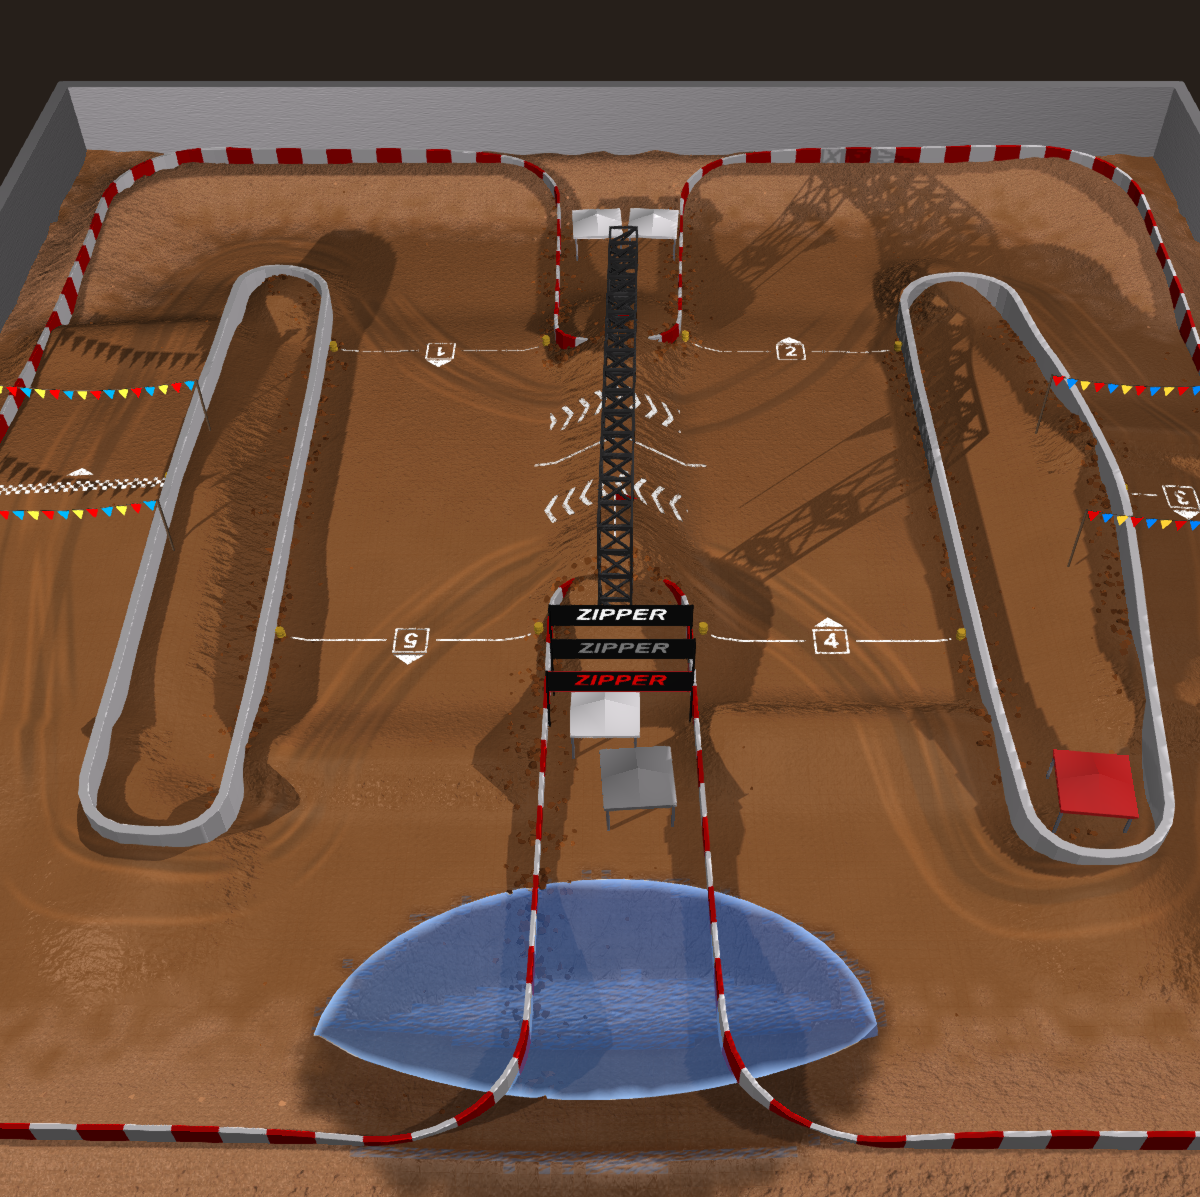
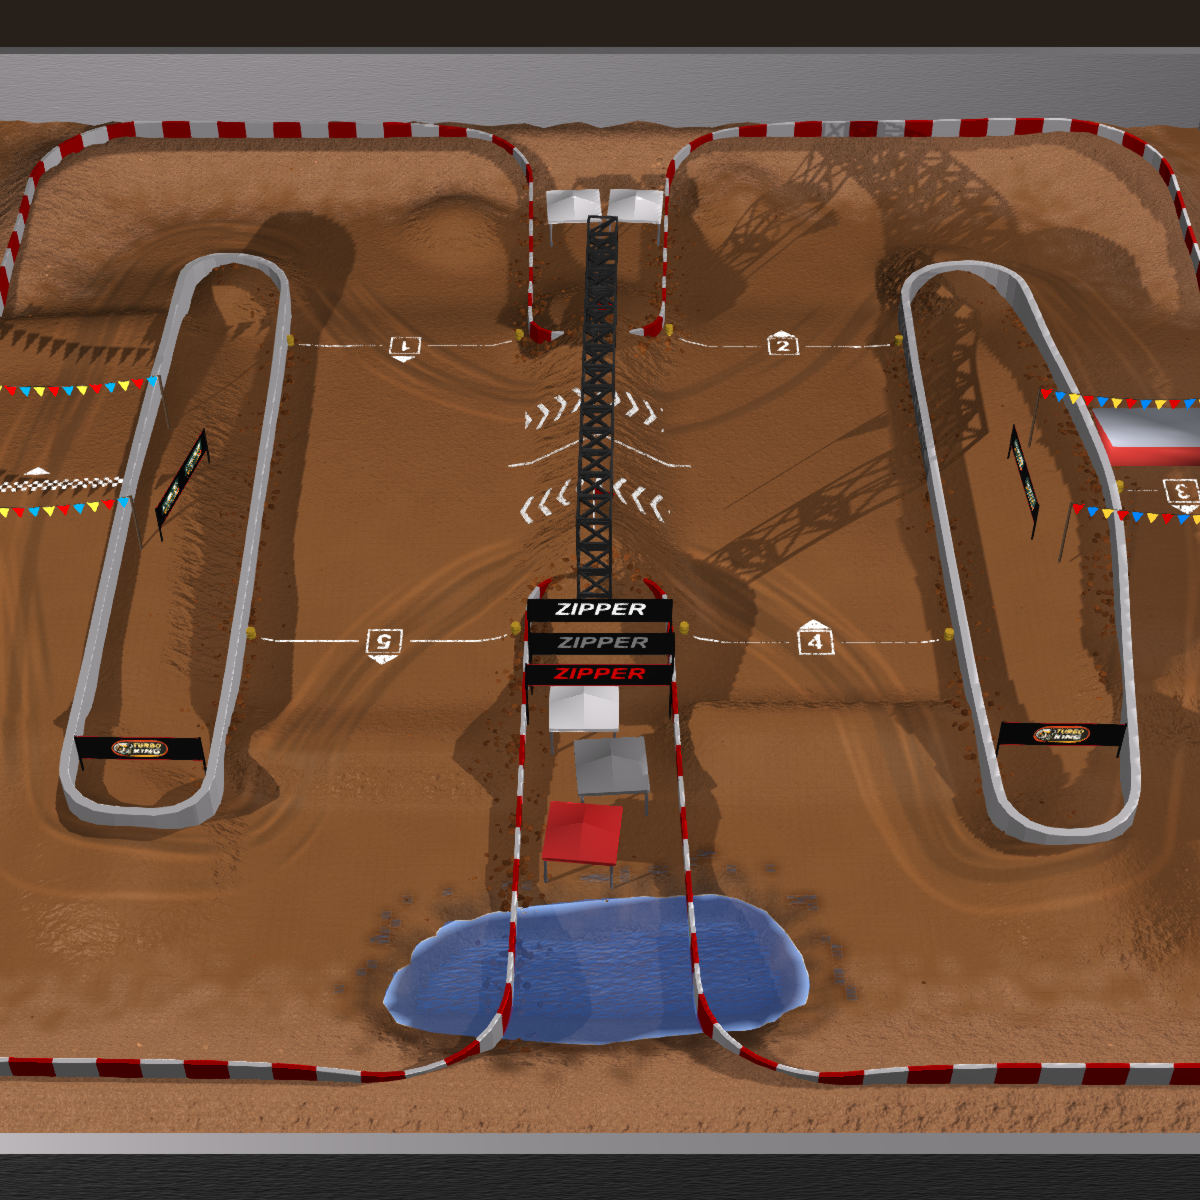
track image capture and cropping

diff --git a/src/editor/EditorController.js b/src/editor/EditorController.js
@@ -2137,15 +2137,22 @@ export class EditorController {
 
   /**
    * Frame the whole track from an overhead tilt (matching the in-game
-   * "screenshot" camera angle), hide the editor gizmos, and download a square
-   * 1200×1200 PNG of the clean track. The framing fits the track's full width
-   * and centres it vertically — the near (lower) corners may fall outside the
-   * square crop, which is fine. Restores the camera + gizmos after.
+   * "screenshot" camera angle), hide the editor gizmos, and produce a square
+   * 1200×1200 PNG of the clean track.
+   *
+   * The camera solve below consistently frames wider than intended — Babylon's
+   * effective field of view at render time doesn't match what the projection
+   * matrix reports here — so rather than keep chasing that discrepancy we
+   * capture at CAPTURE×CAPTURE and take the middle SIZE×SIZE. CAPTURE/SIZE is
+   * therefore the zoom factor: raise CAPTURE to crop in tighter, lower it to
+   * pull back. No rescaling happens, so the output is native pixels.
+   * Restores the camera + gizmos after.
    */
-  async captureTrackScreenshot() {
+  async captureTrackScreenshot({ download = true, persistTrack = true } = {}) {
     const engine = this.scene.getEngine();
     const camera = this.camera;
     const SIZE = 1200;
+    const CAPTURE = 1800;
 
     const savedPos = camera.position.clone();
     const savedTarget = camera.getTarget().clone();
@@ -2153,14 +2160,15 @@ export class EditorController {
 
     this.setGizmosVisible(false);
 
-    // Force the engine to the capture size for the duration of the shot.
-    // Babylon derives the camera's projection from the engine's aspect ratio,
-    // not the render target's, so without this both the framing solve below
-    // and the render itself vary with the browser window — the same track
-    // came out cropped in a squarish window and postage-stamped in a wide one.
+    // Force the engine square for the duration of the shot. Babylon derives
+    // the camera projection from the engine's aspect ratio rather than the
+    // render target's, so without this the framing drifts with the browser
+    // window — the same track came out cropped in a squarish window and
+    // postage-stamped in a wide one. Square here makes it repeatable, which
+    // is what lets a fixed crop factor work.
     const savedWidth = engine.getRenderWidth();
     const savedHeight = engine.getRenderHeight();
-    engine.setSize(SIZE, SIZE);
+    engine.setSize(CAPTURE, CAPTURE);
 
     const width = this.currentTrack?.width ?? 160;
     const depth = this.currentTrack?.depth ?? 160;
@@ -2182,15 +2190,13 @@ export class EditorController {
     const place = (offset) => {
       camera.position.copyFrom(target).addInPlace(offset);
       camera.setTarget(target);
-      camera.getViewMatrix(true);
-      const view = camera.getViewMatrix();
+      const view = camera.getViewMatrix(true);
       return corners.map(c => Vector3.TransformCoordinates(c, view));
     };
 
-    // Half-angle tangents read straight off the projection matrix (for a
-    // perspective matrix m[0] = 1/tanH, m[5] = 1/tanV) rather than derived
-    // from camera.fov, so this stays correct whatever the fovMode. With the
-    // engine forced square above, tanH and tanV agree.
+    // Half-angle tangents read off the projection matrix (for a perspective
+    // matrix m[0] = 1/tanH, m[5] = 1/tanV) rather than derived from
+    // camera.fov, so this stays correct whatever the fovMode.
     const proj = camera.getProjectionMatrix(true);
     const tanH = 1 / proj.m[0];
     const tanV = 1 / proj.m[5];
@@ -2217,14 +2223,17 @@ export class EditorController {
     const name = this.currentTrack?.id || this.currentTrack?.name || 'track';
     try {
       // No fileName → resolves with the PNG data-URL instead of downloading.
-      const dataUrl = await Tools.CreateScreenshotUsingRenderTargetAsync(
-        engine, camera, { width: SIZE, height: SIZE }, 'image/png', 4, true,
+      const rendered = await Tools.CreateScreenshotUsingRenderTargetAsync(
+        engine, camera, { width: CAPTURE, height: CAPTURE }, 'image/png', 4, true,
       );
-      await this._saveTrackImage(`${name}.png`, dataUrl);
-      const link = document.createElement('a');
-      link.href = dataUrl;
-      link.download = `${name}.png`;
-      link.click();
+      const dataUrl = await this._cropToSquare(rendered, SIZE);
+      await this._saveTrackImage(`${name}.png`, dataUrl, persistTrack);
+      if (download) {
+        const link = document.createElement('a');
+        link.href = dataUrl;
+        link.download = `${name}.png`;
+        link.click();
+      }
     } catch (e) {
       console.warn('[Editor] Screenshot failed:', e);
     } finally {
@@ -2237,21 +2246,48 @@ export class EditorController {
   }
 
   /**
+   * Take the centre `size`×`size` pixels of a rendered screenshot. Pure crop,
+   * no rescaling — the caller renders larger than it needs and this trims the
+   * surplus evenly off all four sides, which zooms the framing in by
+   * (render size / size).
+   */
+  async _cropToSquare(dataUrl, size) {
+    const img = await new Promise((resolve, reject) => {
+      const el = new Image();
+      el.onload = () => resolve(el);
+      el.onerror = () => reject(new Error('Failed to decode screenshot'));
+      el.src = dataUrl;
+    });
+
+    const canvas = document.createElement('canvas');
+    canvas.width = canvas.height = size;
+    canvas.getContext('2d').drawImage(
+      img, (img.width - size) / 2, (img.height - size) / 2, size, size,
+      0, 0, size, size,
+    );
+    return canvas.toDataURL('image/png');
+  }
+
+  /**
    * Store a freshly captured screenshot as this track's image so the track
    * carousel picks it up without a rebuild: the thumbnail goes into TrackStore
    * (IndexedDB) under `<filename>`, and the track JSON is updated
    * to reference it. A track that is already saved only gets its
    * `image` field patched, so capturing a screenshot never commits unsaved
    * edits behind the user's back.
+   *
+   * `persistTrack` is false when the caller is a save that is about to write
+   * the track itself — it already knows the right storage key, which is not
+   * necessarily `currentTrack.id`, so writing here too would risk a stray entry.
    */
-  async _saveTrackImage(filename, dataUrl) {
+  async _saveTrackImage(filename, dataUrl, persistTrack = true) {
     if (!this.currentTrack) return;
     try {
       await storeTrackImage(filename, dataUrl);
       this.currentTrack.image = filename;
 
       const key = this.currentTrack.id;
-      if (!key) return;
+      if (!persistTrack || !key) return;
       const stored = getTrackJson(key);
       if (stored) {
         const data = JSON.parse(stored);

diff --git a/src/modes/EditorMode.js b/src/modes/EditorMode.js
@@ -266,11 +266,19 @@ export class EditorMode extends BaseMode {
     // -- Menu callbacks --
     menuManager.onEditorResume = () => menuManager.hideMenu();
 
-    menuManager.onEditorSave = () => {
+    menuManager.onEditorSave = async () => {
       if (rebuild.currentTrack) {
         const saveKey = (menuManager.selectedTrack && menuManager.selectedTrack !== 'new')
           ? menuManager.selectedTrack
           : rebuild.currentTrack.id || 'custom';
+        // A track with no preview image yet gets one captured on its first
+        // save, so it shows up in the selection carousel without the author
+        // having to remember the screenshot button. No download here — that
+        // only happens when the button is pressed explicitly. The capture
+        // sets currentTrack.image, so the save below persists the reference.
+        if (!rebuild.currentTrack.image) {
+          await editorController.captureTrackScreenshot({ download: false, persistTrack: false });
+        }
         trackLoader.saveTrackToStorage(saveKey, rebuild.currentTrack);
         menuManager.selectedTrack = saveKey;
       }

diff --git a/src/vue/settings/RemoveTracksSettings.vue b/src/vue/settings/RemoveTracksSettings.vue
@@ -60,7 +60,7 @@
 import { ref } from 'vue';
 import ConfirmDialog from '../ConfirmDialog.vue';
 import { deleteHotLapRecords } from '../../managers/HotLapStorage.js';
-import { removeStoredTrackImage } from '../../managers/TrackPackLoader.js';
+import { removeImage } from '../../managers/TrackStore.js';
 import { useMenuStore } from '../stores/menu.js';
 
 const store = useMenuStore();
@@ -91,7 +91,7 @@ function refresh() {
       };
     })
     // Show pack-imported tracks, editor-created tracks, and built-in tracks
-    // that were edited & saved to localStorage. Hide untouched built-ins.
+    // that were edited & saved. Hide untouched built-ins.
     .filter(t => !t.isBuiltin || t.hasLocalEdit)
     .sort((a, b) => a.name.localeCompare(b.name));
 }
@@ -119,7 +119,7 @@ async function onConfirmDelete() {
     if (trackLoader) await trackLoader.revertTrack(t.key);
   } else {
     if (trackLoader) trackLoader.removeTrack(t.key);
-    if (t.image) removeStoredTrackImage(t.image);
+    if (t.image) removeImage(t.image);
     deleteHotLapRecords(t.key, false);
     deleteHotLapRecords(t.key, true);
   }

diff --git a/src/managers/TrackPackLoader.js b/src/managers/TrackPackLoader.js
@@ -1,5 +1,5 @@
 import { unzipSync } from 'fflate';
-import { getImageUrl, removeImage, setImage, setTrackJson } from './TrackStore.js';
+import { setImage, setTrackJson } from './TrackStore.js';
 
 const THUMBNAIL_MAX = 200;
 const THUMBNAIL_QUALITY = 0.8;
@@ -61,22 +61,6 @@ export async function loadTrackPack(file, trackLoader) {
   }
 
   return { loaded, errors };
-}
-
-/**
- * Drop a locally stored preview image (pack import or editor screenshot).
- */
-export function removeStoredTrackImage(imageFilename) {
-  removeImage(imageFilename);
-}
-
-/**
- * A URL for a locally stored preview image, usable as an <img> src, or null
- * when the track's image only exists as a shipped file in public/tracks/.
- */
-export function getStoredTrackImage(imageFilename) {
-  if (!imageFilename) return null;
-  return getImageUrl(imageFilename);
 }
 
 /**

diff --git a/src/managers/TrackLoader.js b/src/managers/TrackLoader.js
@@ -1,8 +1,7 @@
 import { zipSync, strToU8 } from 'fflate';
 import { Track } from '../track.js';
-import { getStoredTrackImage } from './TrackPackLoader.js';
 import {
-  getImageBlob, getTrackJson, hasTrackJson, openTrackStore,
+  getImageBlob, getImageUrl, getTrackJson, hasTrackJson, openTrackStore,
   removeTrackJson, setTrackJson, storedTrackKeys,
 } from './TrackStore.js';
 // Track filenames are scanned from public/tracks/ at build time (and re-scanned
@@ -103,7 +102,7 @@ export class TrackLoader {
       seen.add(image);
       const img = new Image();
       img.decoding = 'async';
-      img.src = getStoredTrackImage(image) ?? `${base}tracks/${image}`;
+      img.src = getImageUrl(image) ?? `${base}tracks/${image}`;
     }
   }
 

diff --git a/src/vue/TrackSelectionCarousel.vue b/src/vue/TrackSelectionCarousel.vue
@@ -66,7 +66,7 @@
 
 <script setup>
 import { computed, ref, watch, onMounted } from 'vue';
-import { getStoredTrackImage } from '../managers/TrackPackLoader.js';
+import { getImageUrl } from '../managers/TrackStore.js';
 
 const props = defineProps({
   tracks: {
@@ -128,7 +128,7 @@ const displayTracks = computed(() => {
     key: trackData.key,
     name: trackData.name,
     image: trackData?.image
-      ? (getStoredTrackImage(trackData.image) ?? `${import.meta.env.BASE_URL}tracks/${trackData.image}`)
+      ? (getImageUrl(trackData.image) ?? `${import.meta.env.BASE_URL}tracks/${trackData.image}`)
       : null,
   }));
 });
